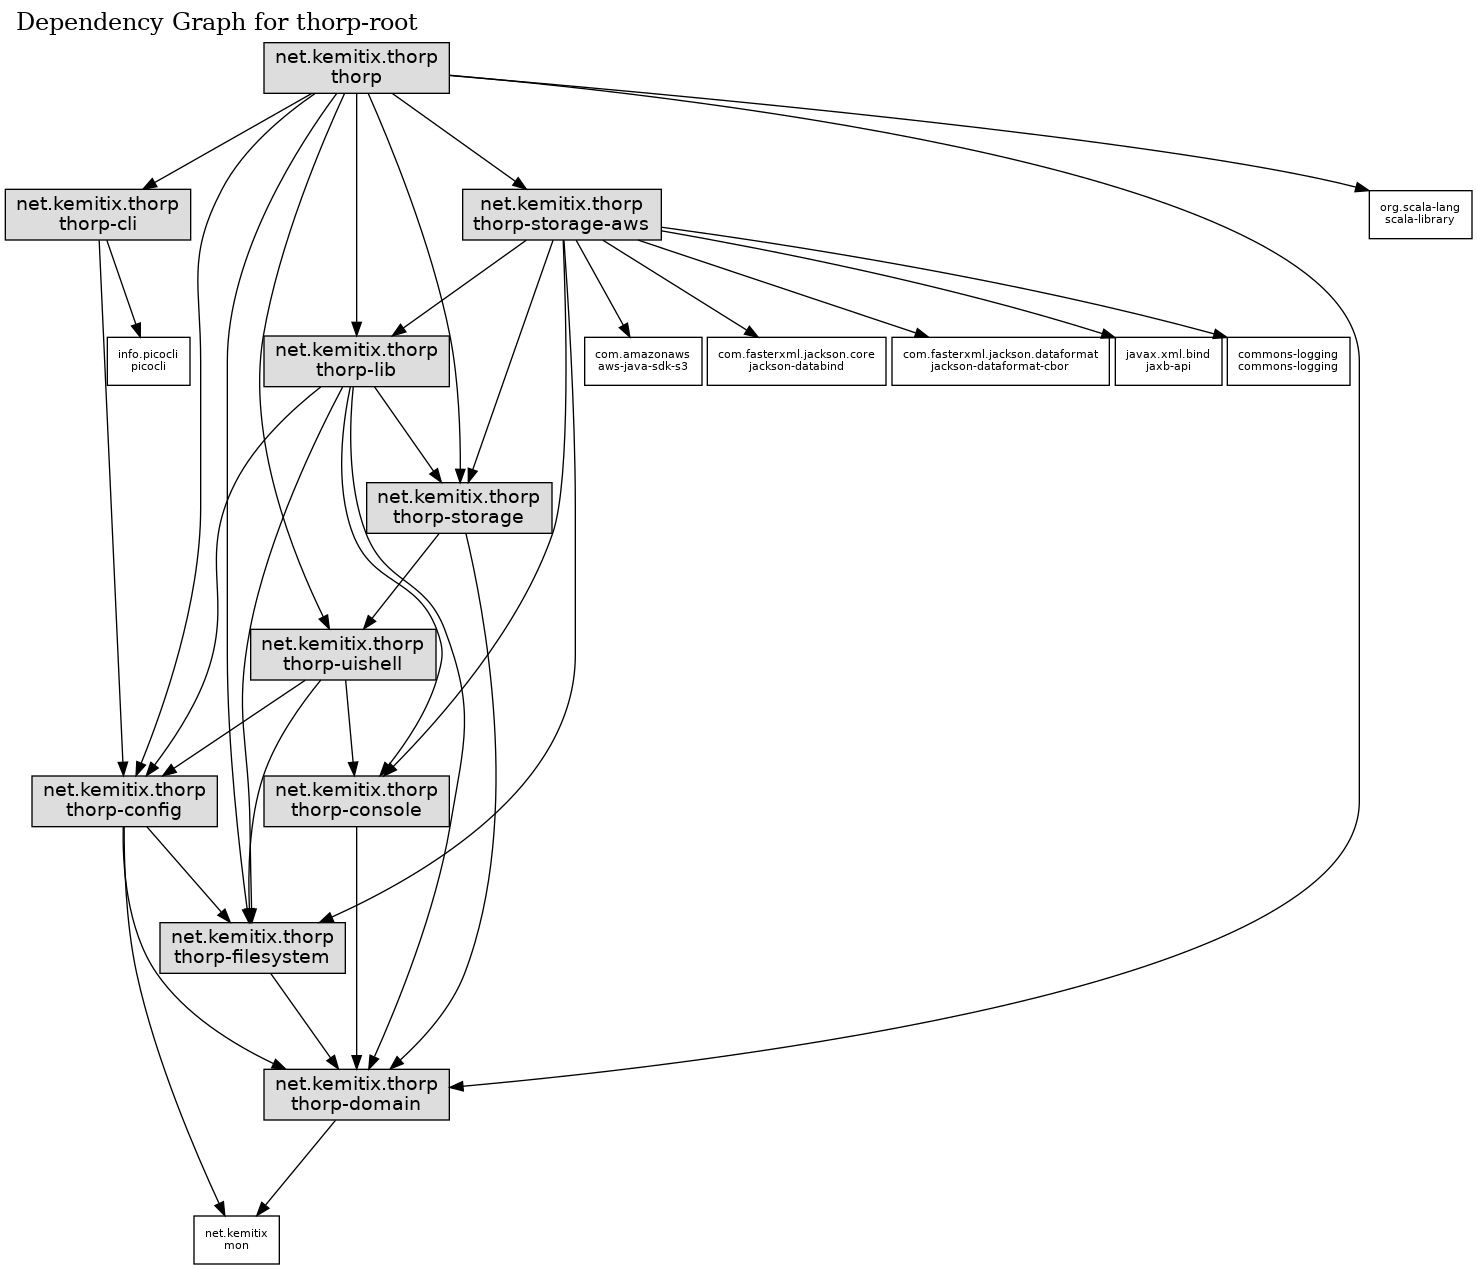
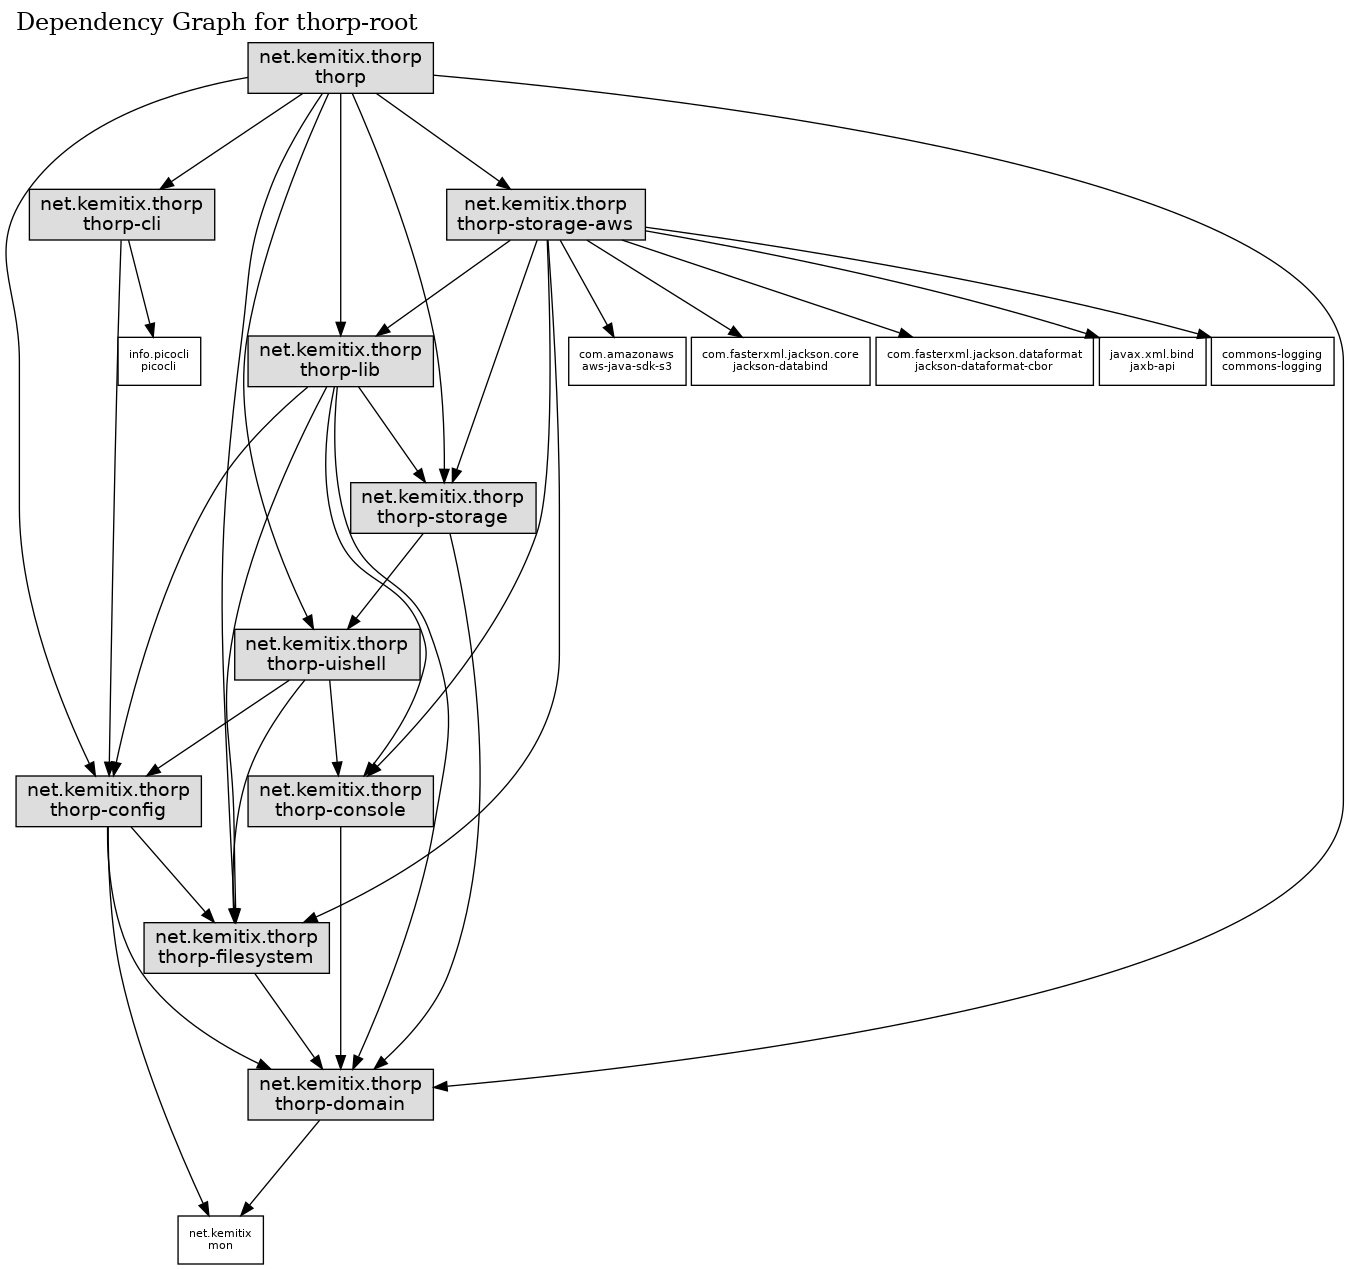
Convert app module to Java (#488)
* app.Program: convert to Java

* app.Main: convert to Java

* app: remove scala dependencies

* parent: remove scala dependencies

diff --git a/app/src/main/java/net/kemitix/thorp/Program.java b/app/src/main/java/net/kemitix/thorp/Program.java
@@ -1,0 +1,100 @@
+package net.kemitix.thorp;
+
+import net.kemitix.thorp.cli.CliArgs;
+import net.kemitix.thorp.config.*;
+import net.kemitix.thorp.console.Console;
+import net.kemitix.thorp.domain.Counters;
+import net.kemitix.thorp.domain.RemoteObjects;
+import net.kemitix.thorp.domain.StorageEvent;
+import net.kemitix.thorp.domain.Terminal;
+import net.kemitix.thorp.domain.channel.Channel;
+import net.kemitix.thorp.domain.channel.Sink;
+import net.kemitix.thorp.lib.Archive;
+import net.kemitix.thorp.lib.LocalFileSystem;
+import net.kemitix.thorp.lib.UnversionedMirrorArchive;
+import net.kemitix.thorp.storage.Storage;
+import net.kemitix.thorp.uishell.UIEvent;
+import net.kemitix.thorp.uishell.UIShell;
+
+import java.io.IOException;
+import java.util.ArrayList;
+import java.util.List;
+import java.util.concurrent.atomic.AtomicInteger;
+
+public interface Program {
+
+    String version = "1.1.0-SNAPSHOT";
+    String versionLabel = String.format("%sThrop v%s%s",
+            Terminal.white, version, Terminal.reset);
+
+    static void run(String[] args) {
+        try {
+            ConfigOptions configOptions = CliArgs.parse(args);
+            Configuration configuration = ConfigurationBuilder.buildConfig(configOptions);
+            Console.putStrLn(versionLabel);
+            if (!ConfigQuery.showVersion(configOptions)) {
+                    executeWithUi(configuration);
+            }
+        } catch (ConfigValidationException e) {
+            Console.putStrLn(String.format(
+                    "Configuration error: %s", e.getErrors()));
+        } catch (IOException e) {
+            Console.putStrLn(String.format(
+                    "Error loading configuration: %s", e.getMessage()));
+        } catch (InterruptedException e) {
+            Console.putStrLn(String.format(
+                    "Program interrupted: %s", e.getMessage()));
+        }
+    }
+
+    static void executeWithUi(Configuration configuration) throws InterruptedException {
+        Channel
+                .<UIEvent>create("ui")
+                .addListener(UIShell.listener(configuration))
+                .run(uiSink -> execute(configuration, uiSink))
+                .start()
+                .waitForShutdown();
+    }
+
+    static void execute(Configuration configuration, Sink<UIEvent> uiSink) {
+        try {
+            uiSink.accept(UIEvent.showValidConfig());
+            RemoteObjects remoteObjects = Storage.getInstance().list(configuration.bucket, configuration.prefix);
+            Archive archive = UnversionedMirrorArchive.create();
+            List<StorageEvent> storageEvents = new ArrayList<>();
+            storageEvents.addAll(LocalFileSystem.scanCopyUpload(configuration, uiSink, remoteObjects, archive));
+            storageEvents.addAll(LocalFileSystem.scanDelete(configuration, uiSink, remoteObjects, archive));
+            Counters counters = countEvents(storageEvents);
+            uiSink.accept(UIEvent.showSummary(counters));
+        } catch (InterruptedException e) {
+            // do nothing
+        } finally {
+            Storage.getInstance().shutdown();
+        }
+    }
+
+    static Counters countEvents(List<StorageEvent> storageEvents) {
+        AtomicInteger uploads = new AtomicInteger();
+        AtomicInteger copies = new AtomicInteger();
+        AtomicInteger deletes = new AtomicInteger();
+        AtomicInteger errors = new AtomicInteger();
+        storageEvents.forEach(storageEvent -> {
+            if (storageEvent instanceof StorageEvent.UploadEvent) {
+                uploads.incrementAndGet();
+            } else if (storageEvent instanceof StorageEvent.CopyEvent) {
+                copies.incrementAndGet();
+            } else if (storageEvent instanceof StorageEvent.DeleteEvent) {
+                deletes.incrementAndGet();
+            } else if (storageEvent instanceof StorageEvent.ErrorEvent) {
+                errors.incrementAndGet();
+            }
+        });
+        return Counters.empty
+                .withUploaded(uploads.get())
+                .withCopied(copies.get())
+                .withDeleted(deletes.get())
+                .withErrors(errors.get());
+    }
+
+
+}

diff --git a/domain/src/main/java/net/kemitix/thorp/domain/Terminal.java b/domain/src/main/java/net/kemitix/thorp/domain/Terminal.java
@@ -66,9 +66,10 @@ public class Terminal {
     public static String enableAlternateBuffer  = csi + "?1049h";
     public static String disableAlternateBuffer = csi + "?1049l";
 
+    public static String reset = "\u001B[0m";
     public static String red = "\u001B[31m";
     public static String green = "\u001B[32m";
-    public static String reset = "\u001B[0m";
+    public static String white = "\u001B[37m";
 
     private static Map<Integer, String> getSubBars() {
         Map<Integer, String> subBars = new HashMap<>();

diff --git a/app/src/main/java/net/kemitix/thorp/Main.java b/app/src/main/java/net/kemitix/thorp/Main.java
@@ -1,0 +1,10 @@
+package net.kemitix.thorp;
+
+public class Main {
+
+    public static void main(String[] args) {
+        Program.run(args);
+        System.exit(0);
+    }
+
+}
